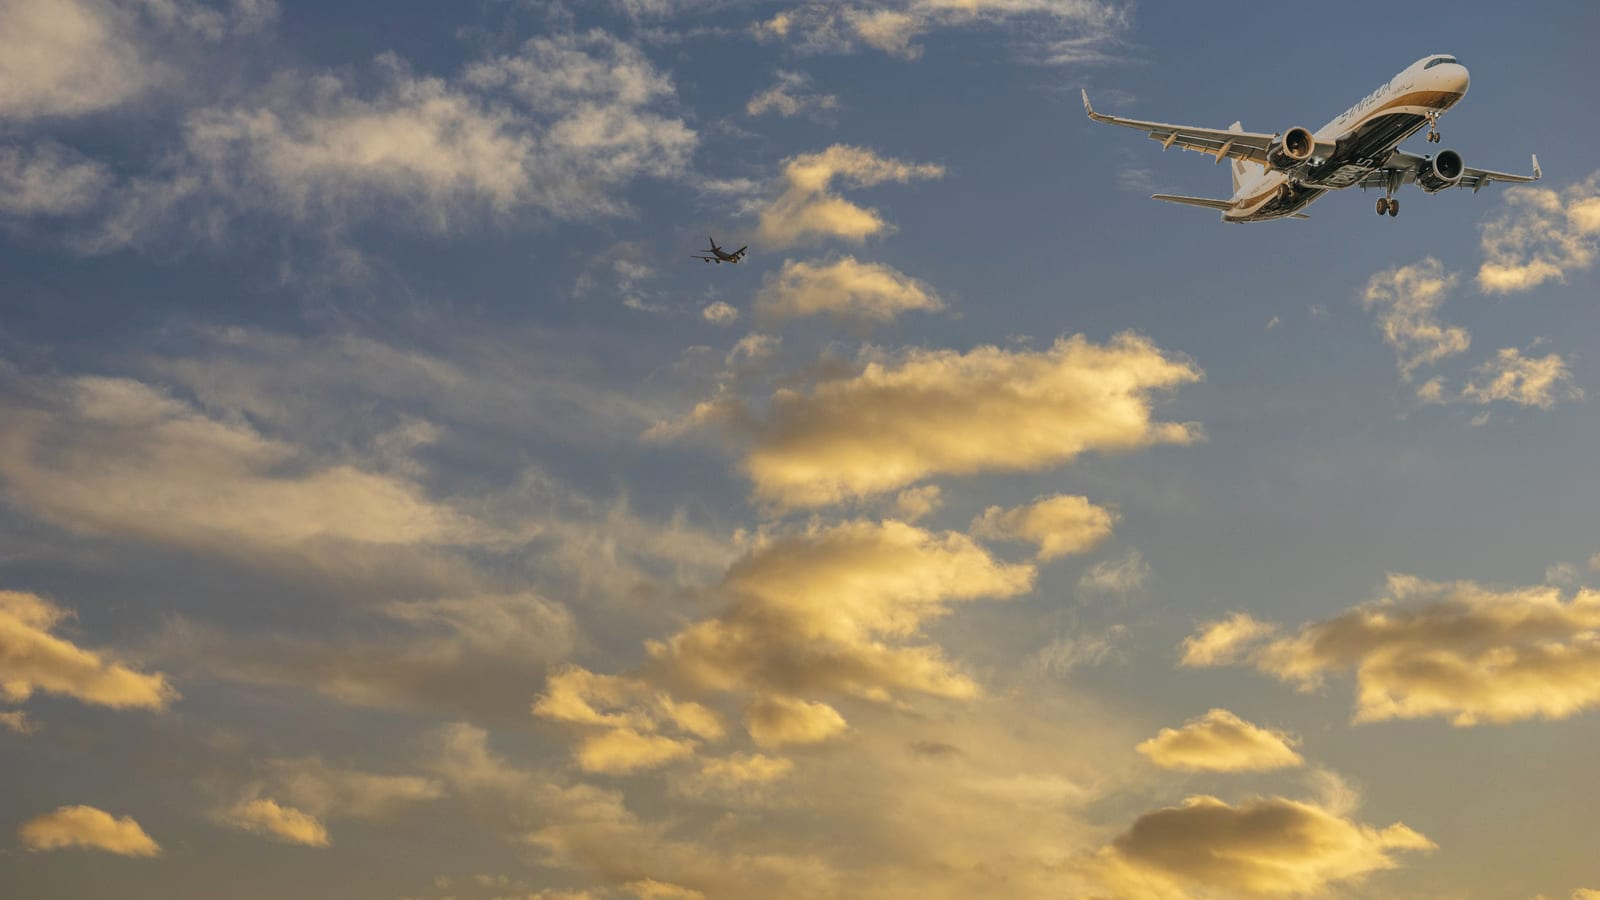
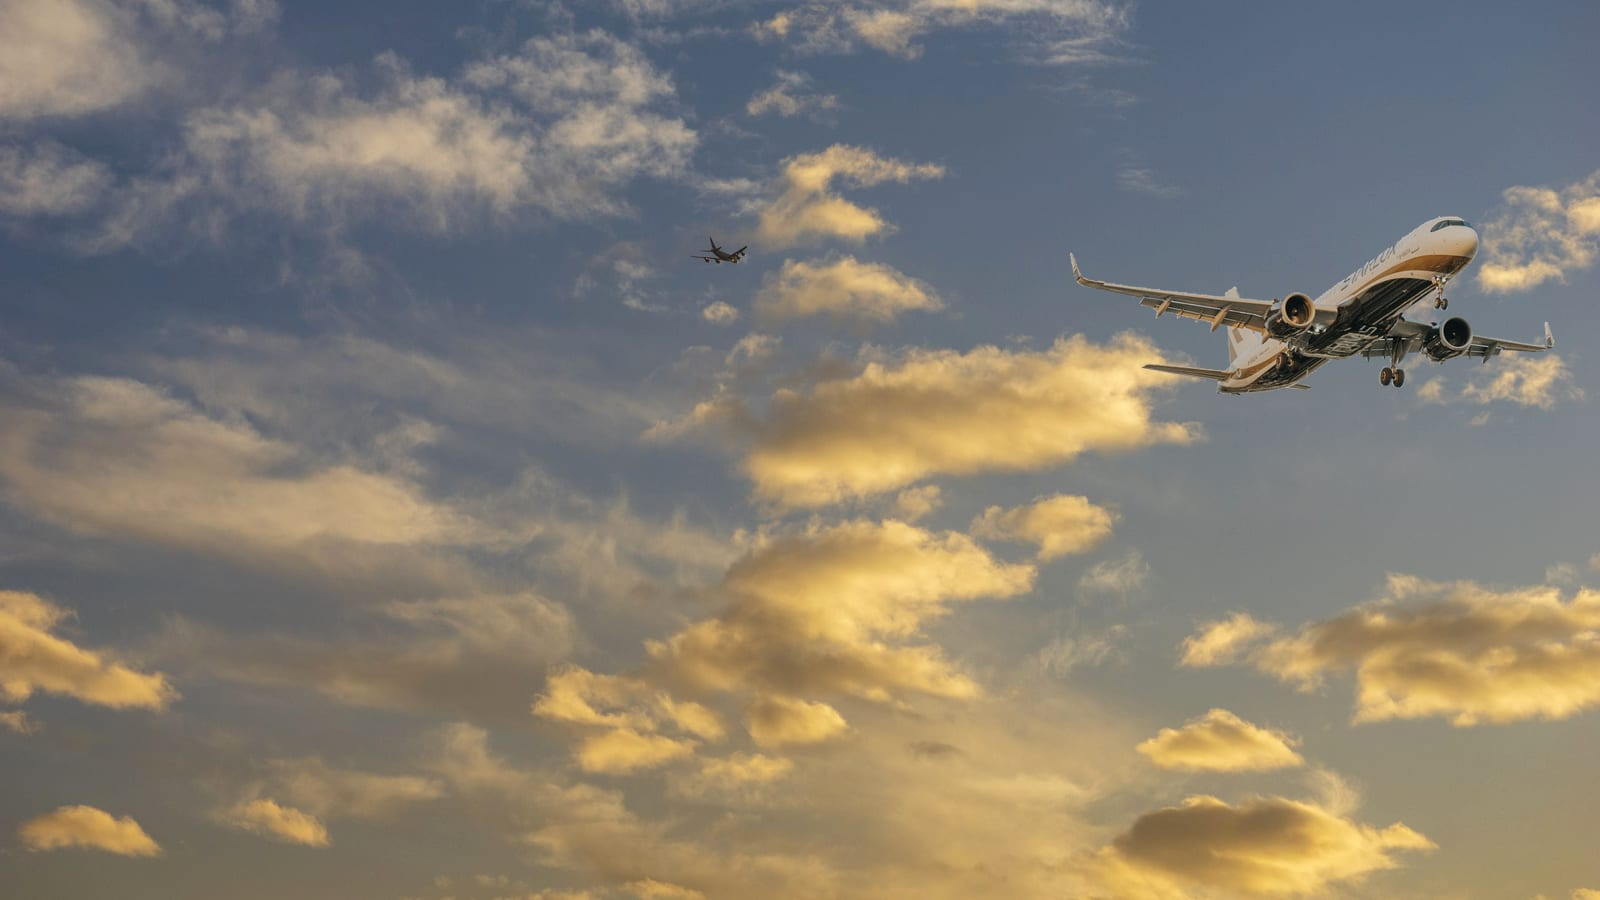
Form left, aircraft right: the band stops wasting sky
Above 1100px the form and the aircraft share the band side by side instead of
stacking, and the strip of empty sky that used to sit above the form goes
away with the stack. The band drops from 902px to 594px at 1440.

The width is measured against the aeroplane, not guessed: its tail reaches
0.669 of the viewport, so the form is capped at 64% and the two never meet.
Checked at eight widths from 901 to 1920 — above 1100 the card always ends
before the tail begins; below it, the stacked layout's padding still clears
the aircraft's underside.

One rule was in the wrong place and losing: the side-by-side padding sat
earlier in the file than the stacked rule it was meant to override, so
padding-top stayed at 25% of the viewport — 360px of sky — and the whole
change did nothing visible.

The narrower card needed its own grid. Five controls across 788px squeezed
each to 140px and every one of them truncated: "Select a package" showed as
"Select a", "1 Passenger" as "1 Passen". Three across now, and the hotels
row's double-width city field goes back to one column, where in a
three-column grid it had left a hole beside itself and pushed the rest out of
alignment. Two placeholders were written for a wider field and have been cut
to fit. Verified: nothing truncated on any tab at 1100, 1280 or 1440.

The car-rental sidebar introduces MyCab rather than the travel desk. The
buttons there already reached MyCab's line; a card still headed "Speak to a
[…]

Changed region(s): [[0.6562, 0.0622, 0.9688, 0.4356]]

diff --git a/assets/css/refinements.css b/assets/css/refinements.css
@@ -1929,14 +1929,47 @@ button, input, select, textarea { font: inherit; }
      width. Above 901px the title block takes over that job and this drops to
      almost nothing, so the name starts at the top of the band rather than
      after a screenful of empty sky. */
-  /* The aircraft's underside sits at 25% of the photograph's height, which is
-     0.141 x the viewport width. 15% clears it at every width from 320 to
-     2560. It used to be this below 901px and almost nothing above, because
-     the banner title took over the job of holding the strip open up there —
-     the title has gone, so this does the whole job again. */
-  padding: 15% 0 clamp(2rem, 4vw, 3rem);
+  /* Between 901 and 1099px the form still sits UNDER the aircraft, so the top
+     padding has to clear it: the underside is at 44% of the photograph's
+     height, ie 0.2475 x the viewport width. Above 1100px the two go side by
+     side and this drops away — see the rule further down. */
+  padding: 25% 0 clamp(2rem, 4vw, 3rem);
   isolation: isolate;
 }
+
+/* ---- Side by side, above 1100px ------------------------------------------
+   The aircraft used to sit above the form with the whole band's width of sky
+   either side of it, and the form below — a lot of empty photograph doing
+   nothing. They share the band instead: the form takes the left, the aircraft
+   flies in the right, and the strip of sky above collapses to ordinary
+   padding. Below 1100px there is not enough width for both, so the stacked
+   arrangement above still applies; below 901px the photograph goes entirely.
+
+   64% is measured against the aircraft: its tail reaches 0.669 of the
+   viewport width, so a form wider than this starts covering the fuselage. */
+@media (min-width: 1100px) {
+  .ts--photo { padding: clamp(2.5rem, 3.5vw, 4rem) 0 clamp(2.5rem, 3.5vw, 4rem); }
+  .ts--photo .ts__tabs,
+  .ts--photo .ts__card { max-width: 64%; }
+
+  /* The card is two thirds of its old width, so the five-across rows it
+     inherits from the full-width layout squeeze every control to about 140px
+     — "Select a package" came out as "Select a", "1 Passenger" as "1 Passen".
+     Three across, wrapping to a second line. */
+  .ts--photo .ts-row--3,
+  .ts--photo .ts-row--4,
+  .ts--photo .ts-row--hotels { grid-template-columns: repeat(3, minmax(0, 1fr)); }
+
+  /* "City or area" spans two columns in the full-width layout, which is right
+     when the row is four across. In a three-across grid it left a hole beside
+     the first field and pushed everything after it out of alignment. */
+  .ts--photo .ts-row--hotels > .ts-field--wide { grid-column: auto; }
+
+  /* The submit button broke "Send on WhatsApp" across two lines once the card
+     narrowed, which made the whole footer taller than the note beside it. */
+  .ts--photo .ts-submit { min-width: 0; white-space: nowrap; }
+}
+
 
 .ts__backdrop {
   position: absolute;

diff --git a/src/templates/components.js b/src/templates/components.js
@@ -468,11 +468,18 @@ ${
 /* -------------------------------------------------------------------------
    Sidebar building blocks
    ------------------------------------------------------------------------- */
-function contactSidebarCard(waMessage, contact = DESK) {
+/* The heading and the blurb move with the number. On the car-rental page the
+   buttons reach MyCab's own line, and a card still headed "Speak to a Travel
+   Consultant" above someone else's number reads as a mistake — the visitor
+   should know who is about to answer. */
+function contactSidebarCard(waMessage, contact = DESK, {
+  title = 'Speak to a Travel Consultant',
+  text = 'Our team can confirm current availability, pricing and documentation requirements for your travel dates.',
+} = {}) {
   return `
         <div class="sidebar-card sidebar-card--green">
-          <h3>Speak to a Travel Consultant</h3>
-          <p>Our team can confirm current availability, pricing and documentation requirements for your travel dates.</p>
+          <h3>${esc(title)}</h3>
+          <p>${esc(text)}</p>
           <div class="btn-row" style="margin-top:var(--sp-4)">
             <a class="btn btn--whatsapp btn--sm btn--block" href="${attr(waHref(waMessage, contact))}" target="_blank" rel="noopener">${icon('whatsapp', { size: 15 })} WhatsApp Us</a>
             <a class="btn btn--outline-light btn--sm btn--block" href="tel:${attr(contact.tel)}">${icon('phone', { size: 15 })} ${esc(contact.label)}</a>

diff --git a/src/templates/search-widget.js b/src/templates/search-widget.js
@@ -451,7 +451,7 @@ function hotelsPanel(hidden) {
             ${field({
               id: `${p}-city`, label: 'City or Area', icon: 'pin', required: true, cls: 'ts-field--wide', combo: true,
               errorFor: 'city', error: 'Which city are you staying in?',
-              control: input({ id: `${p}-city`, name: 'city', placeholder: 'Search a city, area or hotel', list: 'ts-hotel-cities', extra: comboAttrs(`${p}-city`) }),
+              control: input({ id: `${p}-city`, name: 'city', placeholder: 'City, area or hotel', list: 'ts-hotel-cities', extra: comboAttrs(`${p}-city`) }),
             })}
             ${field({
               id: `${p}-in`, label: 'Check In', icon: 'calendar', required: true,
@@ -472,7 +472,7 @@ function hotelsPanel(hidden) {
             })}
             ${field({
               id: `${p}-cat`, label: 'Hotel Category', icon: 'star', combo: true,
-              control: input({ id: `${p}-cat`, name: 'category', placeholder: 'Any category — or type your own', list: 'ts-hotel-categories', extra: comboAttrs(`${p}-cat`) }),
+              control: input({ id: `${p}-cat`, name: 'category', placeholder: 'Any category', list: 'ts-hotel-categories', extra: comboAttrs(`${p}-cat`) }),
             })}
             ${nameField(p)}
             ${phoneField(p)}

diff --git a/src/pages/services.js b/src/pages/services.js
@@ -108,7 +108,8 @@ function servicePage(s) {
      A visitor who taps WhatsApp or Call on that page wants the car desk, not
      ticketing, so those buttons carry the partner's number. Every other
      service page reaches the agency. */
-  const contact = s.slug === 'car-rental'
+  const isCarRental = s.slug === 'car-rental';
+  const contact = isCarRental
     ? { waNumber: site.partner.uan.wa, tel: site.partner.uan.tel, label: site.partner.uan.label }
     : c.DESK;
 
@@ -167,7 +168,10 @@ ${assuranceStrip(WIDGET_TAB[s.slug])}
         </div>
 
         <aside class="sidebar is-sticky">
-          ${c.contactSidebarCard(wa, contact)}
+          ${c.contactSidebarCard(wa, contact, isCarRental ? {
+            title: `Speak to ${site.partner.name}`,
+            text: `Cars come from ${site.partner.name}, our car-rental partner in the same office. These reach their desk directly — they confirm the vehicle, the driver and the rate.`,
+          } : {})}
           ${related.length ? c.linkListCard('Related Services', orderServiceLinks(related)) : ''}
           <div class="sidebar-card sidebar-card--cream">
             <h3>Office Hours</h3>

diff --git a/src/tools/make-search-backdrop.js b/src/tools/make-search-backdrop.js
@@ -42,11 +42,12 @@ const cdn = (id, w) =>
   `https://images.pexels.com/photos/${id}/pexels-photo-${id}.jpeg?auto=compress&cs=tinysrgb&w=${w}`;
 
 /* Where the aircraft sits in the finished frame, as fractions of it. The
-   client wants it in the right-hand corner with the name starting at the very
-   top of the band and no spare sky anywhere, so it is smaller than the
-   reference's and pushed well right, clear of the name on the left. */
-const PLANE_HEIGHT = 0.19;
-const PLANE_CENTRE = { x: 0.82, y: 0.155 };
+   form and the aircraft sit side by side — form left, aircraft right — so
+   this is pushed well right and centred vertically against the form rather
+   than tucked into the top corner above it. Anything further left and the
+   card covers the fuselage. */
+const PLANE_HEIGHT = 0.20;
+const PLANE_CENTRE = { x: 0.82, y: 0.34 };
 
 const OUTPUTS = [
   { file: 'search-backdrop.jpg', w: 1600, h: 900 },
